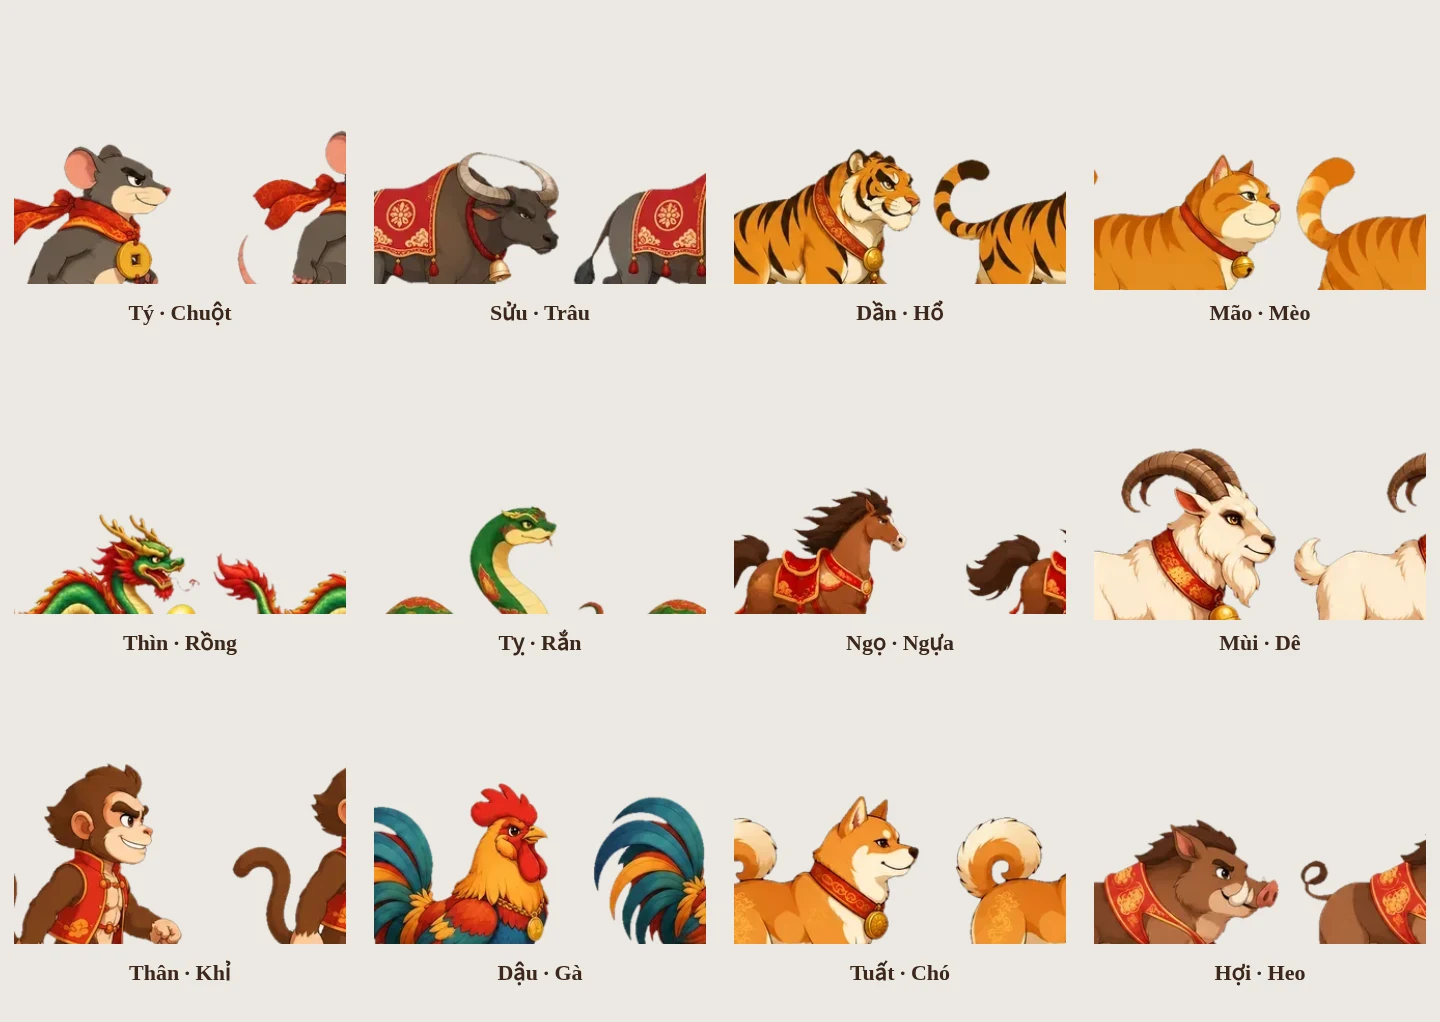
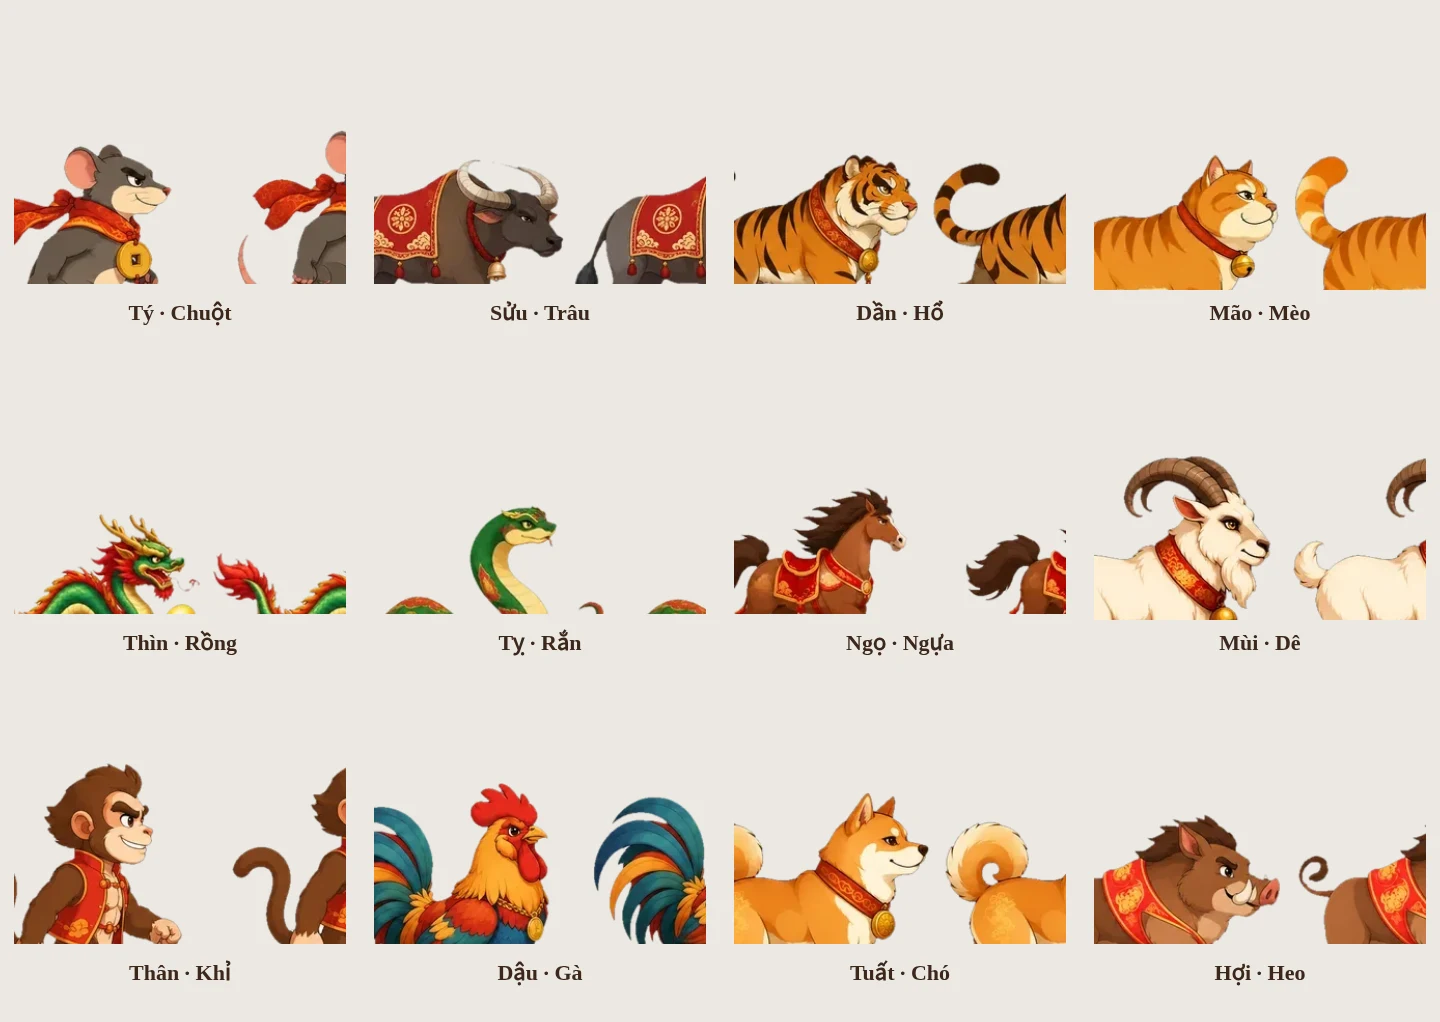
Thú bốn chân: hai chân cùng bên bước cùng nhau; đường đất thành vạch liền đứng yên
- Nhịp chân đổi sang từng bên: chân trước và chân sau cùng bên đi cùng pha, bên kia ngược pha nửa vòng, nên bên gần (sáng) và bên xa (sẫm) luân phiên rõ như con hai chân. Vẽ lại trâu, hổ, mèo, dê, chó, heo.
- Bỏ các vạch nét đứt cuộn dưới chân (nhiễu mắt); thay bằng một đường đất liền, mảnh, đứng yên (chỉ ở tờ bloc).

Claude-Session: https://claude.ai/code/session_01RuPofRMvzvZPPPoDv3dRha

diff --git a/custom_components/lich_viet/frontend/lich-bloc-xua-card.js b/custom_components/lich_viet/frontend/lich-bloc-xua-card.js
@@ -73,12 +73,7 @@ const SPRITE_CSS = Object.entries(THU_ANH).map(([k, v]) => keyframesSprite("sp-"
 .spx>i.b{opacity:0;background-position:var(--p5);animation:spx-tho 4.6s ease-in-out infinite}
 .spx.chay>i.a{animation:var(--spa) var(--sd) step-end infinite}
 .spx.chay>i.b{animation:none;opacity:0}   /* đang bước: mỗi khung là một tư thế thật, không mờ chuyển (tránh bóng ma) */
-.spx>b.dat{display:none;position:absolute;left:-4%;right:-4%;bottom:1.2%;height:.9cqw;border-radius:99px;opacity:.7;background:repeating-linear-gradient(90deg,rgba(90,60,20,.45) 0 9cqw,transparent 9cqw 15.33cqw);animation:duong2 var(--dd) linear infinite}
-.canh-thu .spx>b.dat{display:block}   /* vạch đất chỉ ở tờ bloc, không vào tiêu đề lịch để bàn */
-.spx:not(.chay)>b.dat{animation-play-state:paused}
-.dung .spx>i,.dung .spx>b.dat,.spx.dung>i{animation-play-state:paused}
-.canh-thu:has(.spx)::after{display:none}
-@keyframes duong2{to{background-position-x:-15.33cqw}}
+.dung .spx>i,.spx.dung>i{animation-play-state:paused}
 @keyframes spx-tho{0%,100%{opacity:0}50%{opacity:1}}
 .sp:not(.chay){animation:sp-tho 4.4s ease-in-out infinite;transform-origin:50% 100%}
 .sp{display:block;width:100%;background-repeat:no-repeat;background-position:0 0;image-rendering:auto}
@@ -104,7 +99,7 @@ async function hinhThu(khoa, chay, heSo = 1) {
   if (sp) {
     const c = THU_ANH[khoa], n = KHUNG_BUOC;
     const fk = c.fps * Math.min(4, Math.max(0.25, +heSo > 0 ? +heSo : 1));   // toc_do giới hạn 0,25–4
-    return `<div class="spx${chay ? " chay" : ""}" data-fps="${c.fps}" style="aspect-ratio:${sp.rong}/${sp.cao};--bg:url('${GOC}${khoa}.webp');--bs:${c.cot * 100}% ${c.hang * 100}%;--sd:${(n / fk).toFixed(3)}s;--dd:${(n / fk / 3).toFixed(3)}s;--spa:sp-${khoa};--p4:${viTri(KHUNG_BUOC, c.cot, c.hang)};--p5:${viTri(KHUNG_BUOC + 1, c.cot, c.hang)}" role="img" aria-label="${esc(TEN_THU[khoa] || "")}"><i class="a"></i><i class="b"></i><b class="dat"></b></div>`;
+    return `<div class="spx${chay ? " chay" : ""}" data-fps="${c.fps}" style="aspect-ratio:${sp.rong}/${sp.cao};--bg:url('${GOC}${khoa}.webp');--bs:${c.cot * 100}% ${c.hang * 100}%;--sd:${(n / fk).toFixed(3)}s;--spa:sp-${khoa};--p4:${viTri(KHUNG_BUOC, c.cot, c.hang)};--p5:${viTri(KHUNG_BUOC + 1, c.cot, c.hang)}" role="img" aria-label="${esc(TEN_THU[khoa] || "")}"><i class="a"></i><i class="b"></i></div>`;
   }
   return `<div class="thu ${chay ? "di" : "nghi"}">${veConGiap(khoa, "u" + ++_uid)}</div>`;
 }
@@ -152,9 +147,7 @@ button{font:inherit;color:inherit}
 .phan-tren>*{position:relative}
 .khung-thu{position:relative;flex:0 0 auto;min-height:0;display:grid;grid-template-columns:42% 1fr;gap:5cqw;align-items:end;border-top:.35cqw dotted rgba(138,42,28,.45);border-bottom:.35cqw dotted rgba(138,42,28,.45);padding:3cqw 0 2.4cqw}
 .canh-thu{position:relative;align-self:end;overflow:visible;padding-bottom:2cqw}
-.canh-thu::after{content:"";position:absolute;left:-4%;right:-4%;bottom:.4cqw;height:.9cqw;border-radius:99px;background:repeating-linear-gradient(90deg,rgba(90,60,20,.45) 0 5cqw,transparent 5cqw 8cqw);animation:duong 2.4s linear infinite;animation-play-state:paused;opacity:.7}
-.chay-on.dang-chay .canh-thu::after{animation-play-state:running}
-@keyframes duong{to{background-position-x:-8cqw}}
+.canh-thu::after{content:"";position:absolute;left:-2%;right:-2%;bottom:calc(2cqw + .5cqw);height:.5cqw;border-radius:99px;background:rgba(90,60,20,.38)}   /* đường đất liền, đứng yên */
 @keyframes sp-tho{0%,100%{transform:scale(1,1)}50%{transform:scale(1.006,1.016)}}
 .hh{display:flex;flex-wrap:wrap;gap:1.4cqw;justify-content:center;margin-top:2.4cqw;font-size:2.5cqw;font-weight:700;color:var(--vien);white-space:nowrap}
 .hh span{white-space:nowrap;background:rgba(255,248,230,.85);border:.25cqw solid rgba(200,150,46,.7);border-radius:99px;padding:.15cqw 1.4cqw}
@@ -213,7 +206,6 @@ button{font:inherit;color:inherit}
 .dau-thang .am-thang{font-size:3.1cqw;opacity:.85;margin-bottom:3cqw}
 .dau-thang .canh-thu{padding-bottom:0;margin-bottom:-.2cqw}
 .dau-thang .canh-thu::after{display:none}
-.dau-thang .canh-thu .spx>b.dat{display:none}
 .vung-luoi{position:relative;background-size:cover;background-position:center}
 .vung-luoi::before{content:"";position:absolute;inset:0;pointer-events:none;background:linear-gradient(180deg,rgba(249,242,224,.50) 0,rgba(249,242,224,.38) 100%)}
 .vung-luoi>*{position:relative}
@@ -320,7 +312,7 @@ class LichBlocXuaCard extends HTMLElement {
     dat();
     const apToc = () => R.querySelectorAll(".spx").forEach((e) => {
       const fk = (+e.dataset.fps || 1) * Math.min(4, Math.max(0.25, +this._cai("toc_do") > 0 ? +this._cai("toc_do") : 1));
-      e.style.setProperty("--sd", (KHUNG_BUOC / fk).toFixed(3) + "s"); e.style.setProperty("--dd", (KHUNG_BUOC / fk / 3).toFixed(3) + "s");
+      e.style.setProperty("--sd", (KHUNG_BUOC / fk).toFixed(3) + "s");
     });
     banh.addEventListener("click", (e) => { e.stopPropagation(); panel.hidden = !panel.hidden; banh.classList.toggle("mo", !panel.hidden); });
     panel.addEventListener("pointerdown", (e) => e.stopPropagation());
